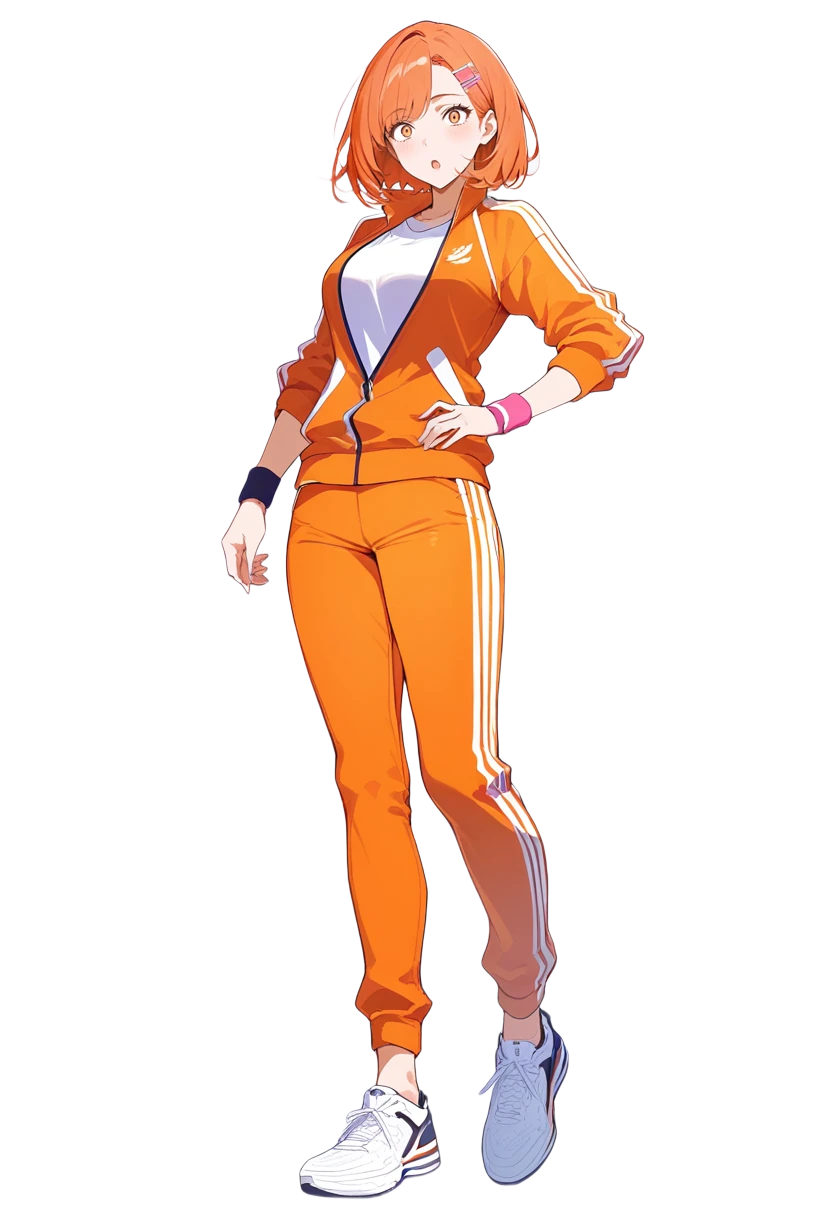
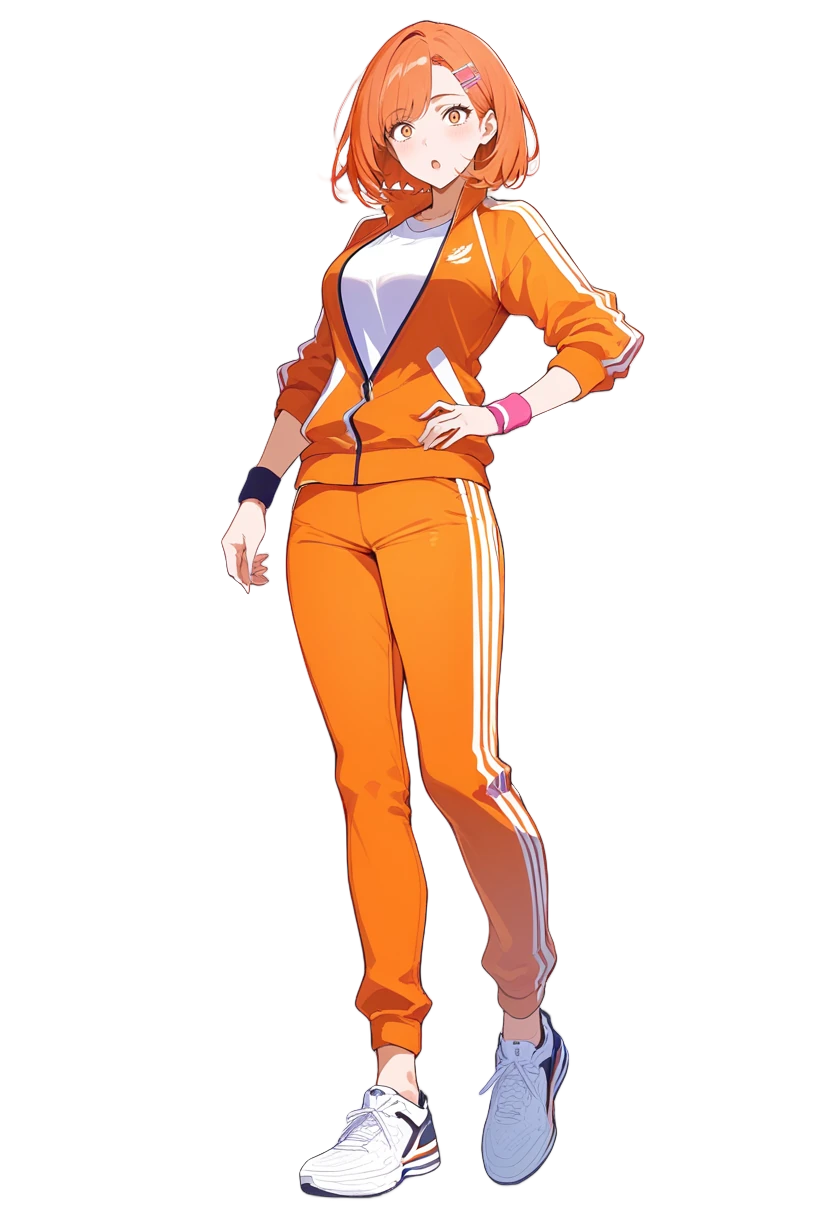
加入葉縈；立繪改用兩個去背模型合併並去白邊
- 葉縈：六種表情立繪（基本立繪 seed 100，表情都用 seed 1）與 34 句台詞（含 3 句吃醋台詞，觸發機制之後和好感度一起做），設定胸像範圍並啟用，五位角色到齊
- 去背改成合併 isnet-anime 與 BiRefNet 的遮罩，再用原本的背景色修正半透明邊緣的顏色：去掉頭髮外圍的白色光暈和部分髮絲間的背景殘留（art/defringe.py）
- 以晴、顏緋、沈靜澄、溫芷薰的立繪用新方法從原圖重做（art/recut.py）；沈靜澄髮梢之間仍有背景殘留，要換去背模型再處理
- notebook 步驟 4 改用同樣的去背方式、預覽改成深色背景；第 1 格會實際檢查 rembg 有沒有裝上
- characters.md、plan.md 更新定稿紀錄、去背方式與進度

Changed region(s): [[0.375, 0.125, 0.4375, 0.1875], [0.625, 0.0938, 0.6562, 0.125], [0.4062, 0.0625, 0.4375, 0.0938]]

diff --git a/art/defringe.py b/art/defringe.py
@@ -1,0 +1,73 @@
+"""立繪去背的後處理：合併兩個去背模型的遮罩（combine_masks），再修正半透明邊緣的顏色（defringe）。
+
+去背模型給頭髮細絲、輪廓邊緣的是半透明遮罩，這沒問題；但這些像素的顏色仍混著原本的淺灰白背景，
+放在網站的深色背景上會出現一圈白色光暈。這裡保留每個像素的透明度，只修正顏色：
+半透明像素 = 前景 × 透明度 + 背景 × (1 - 透明度)，用去背前的背景色反推出前景色；
+太透明、反推不穩定的像素，改用附近不透明部分的平滑顏色。邊緣仍然柔和，但不再帶著背景的白。
+
+透明度本身給錯的地方（例如髮絲之間的背景被當成頭髮）defringe 救不回來，交給 combine_masks；
+試過依顏色修正透明度，但白袍和淺灰背景太像，會削掉白袍邊緣，所以不做。
+
+要在存成 webp 之前、還有去背前原圖的時候做：全透明的地方要是原本的背景色才算得準。
+webp 壓縮會改掉部分看不到的像素（試過從 webp 還原原圖，髮絲間出現棋盤格），所以不要拿輸出後的 webp 來處理。
+
+notebook 步驟 4 輸出 webp 前會用同樣的函式；改這裡要一起改 notebook。
+已經輸出的立繪要重做，用 art/recut.py。
+
+"""
+import sys
+
+import numpy as np
+from PIL import Image
+from scipy.ndimage import distance_transform_edt, gaussian_filter
+
+SOLID = 230  # 透明度高於這個值的像素顏色可信，不動
+
+
+def smooth_fill(rgb, known, sigma):
+    """用 known 像素的顏色平滑地填滿整張圖（高斯加權平均）；離太遠的退回最近像素的顏色。"""
+    w = gaussian_filter(known.astype(float), sigma)
+    filled = np.stack([gaussian_filter(rgb[..., c] * known, sigma) for c in range(3)], -1) / np.maximum(w, 1e-6)[..., None]
+    far = w < 1e-3
+    if far.any():
+        _, (iy, ix) = distance_transform_edt(~known, return_indices=True)
+        filled[far] = rgb[iy, ix][far]
+    return filled
+
+
+def defringe(image: Image.Image, solid: int = SOLID) -> Image.Image:
+    rgba = np.array(image.convert('RGBA')).astype(float)
+    rgb, alpha = rgba[..., :3], rgba[..., 3]
+    clear = alpha == 0
+    if not clear.any() or not (alpha >= solid).any():
+        return image
+    # 每個位置原本的背景色：全透明的地方還是去背前的背景，從那裡平滑地推過來（背景有漸層也能處理）
+    bg = smooth_fill(rgb, clear, 6)
+    # 半透明像素 = 前景 × a + 背景 × (1 - a)，用背景色反推前景（把混進來的背景白扣掉）
+    a = (alpha / 255)[..., None]
+    fg = np.clip((rgb - (1 - a) * bg) / np.maximum(a, 1e-3), 0, 255)
+    # 很透明的像素反推不穩定，改用附近不透明部分的平滑顏色
+    near = smooth_fill(rgb, alpha >= solid, 2)
+    t = np.clip((a - 0.15) / 0.35, 0, 1)
+    semi = alpha < solid
+    out = rgb.copy()
+    out[semi] = (t * fg + (1 - t) * near)[semi]
+    rgba[..., :3] = out
+    return Image.fromarray(rgba.round().astype(np.uint8), 'RGBA')
+
+
+def combine_masks(isnet: Image.Image, birefnet: Image.Image, cut: float = 60, sigma: float = 1.5) -> Image.Image:
+    """合併兩個去背模型的遮罩：以 isnet-anime 的平滑邊緣為主，BiRefNet 判斷為背景的地方挖掉。
+    isnet-anime 會把髮絲之間的背景當成半透明的頭髮留下來；BiRefNet 能分辨那是背景，但細髮絲的邊緣會變成鋸齒。
+    BiRefNet 的遮罩先稍微模糊，鋸齒才不會傳到結果上。"""
+    b = gaussian_filter(np.asarray(birefnet.convert('L')).astype(float), sigma)
+    keep = np.clip(b / cut, 0, 1)
+    return Image.fromarray((np.asarray(isnet.convert('L')).astype(float) * keep).round().astype(np.uint8), 'L')
+
+
+def whitish_edges(image: Image.Image) -> int:
+    """半透明、又很亮很灰的像素數（白邊的程度），用來比較處理前後"""
+    a = np.asarray(image.convert('RGBA')).astype(int)
+    rgb, alpha = a[..., :3], a[..., 3]
+    semi = (alpha > 20) & (alpha < SOLID)
+    return int((semi & (rgb.mean(-1) > 215) & (rgb.max(-1) - rgb.min(-1) < 25)).sum())

diff --git a/art/recut.py b/art/recut.py
@@ -1,0 +1,48 @@
+"""重做某位角色的立繪去背：從 Colab 產生的原圖重新去背，輸出到 data/characters/<角色>/。
+
+notebook 步驟 4 已經用同樣的方法（兩個去背模型合併 + 去白邊）；這個工具給「已經輸出、要用新方法重做」的立繪用。
+需要原圖：把 Google Drive 的 nmle-art/expr/animagine/<角色>/<基本立繪 seed>/ 下載到 art/<角色>/<基本立繪 seed>/。
+選用的表情 seed 見 characters.md 的「定稿紀錄」。
+
+用法（需要 rembg、scipy：pip install "rembg[cpu]" scipy）：
+    python art/recut.py fei 113 normal=2 happy=2 shy=2 sad=2 surprised=2 pout=2
+
+去背只用 normal 那張算一次，所有表情共用同一個遮罩，切換表情時輪廓才不會跳動（同 notebook）。
+BiRefNet 在 CPU 上一張大約一分半鐘，模型第一次會下載約 1 GB。
+"""
+import sys
+from pathlib import Path
+
+from PIL import Image
+from rembg import new_session, remove
+
+from defringe import combine_masks, defringe, whitish_edges
+
+ROOT = Path(__file__).resolve().parent.parent
+
+
+def main(char, base_seed, picks):
+    src = {name: ROOT / 'art' / char / base_seed / name / f'{seed}.png' for name, seed in picks.items()}
+    missing = [str(p) for p in src.values() if not p.exists()]
+    if missing:
+        sys.exit('找不到原圖：\n' + '\n'.join(missing))
+    base = Image.open(src['normal']).convert('RGB')
+    print('去背中（isnet-anime）……', flush=True)
+    isnet = remove(base, session=new_session('isnet-anime'), only_mask=True)
+    print('去背中（birefnet-general，CPU 上約一分半鐘）……', flush=True)
+    bref = remove(base, session=new_session('birefnet-general'), only_mask=True)
+    alpha = combine_masks(isnet, bref)
+    out_dir = ROOT / 'data' / 'characters' / char
+    out_dir.mkdir(parents=True, exist_ok=True)
+    for name, path in src.items():
+        rgba = Image.open(path).convert('RGB')
+        rgba.putalpha(alpha)
+        fixed = defringe(rgba)
+        fixed.save(out_dir / f'{name}.webp', 'WEBP', quality=90, method=6)
+        print(f'{name}：白邊像素 {whitish_edges(rgba)} → {whitish_edges(fixed)}')
+
+
+if __name__ == '__main__':
+    if len(sys.argv) < 4:
+        sys.exit(__doc__)
+    main(sys.argv[1], sys.argv[2], dict(a.split('=') for a in sys.argv[3:]))

diff --git a/characters.md b/characters.md
@@ -13,7 +13,7 @@
 | `zhixun` | 溫芷薰 | 大姊姊 | 紫 | 27 | 醫院臨床藥師 | 藥理學 | 25 |
 | `fei` | 顏緋 | 傲嬌 | 紅 | 28 | 病理科住院醫師 | 病理學、公共衛生學 | 40 |
 
-第一版（10/21 前）先做 **夏以晴**（醫學(一)）和 **顏緋**（醫學(二)），其餘三位考前陸續加入。**沈靜澄**、**溫芷薰**已在 10/15 加入（立繪與台詞）；葉縈還沒做。
+第一版（10/21 前）先做 **夏以晴**（醫學(一)）和 **顏緋**（醫學(二)），其餘三位考前陸續加入。**沈靜澄**、**溫芷薰**、**葉縈**已在 10/15 加入（立繪與台詞），五位角色到齊。
 
 ## 世界觀與故事
 
@@ -49,7 +49,7 @@
 
 - **解析度**：832 × 1216（直式全身立繪）
 - **參數**：CFG 5、28 steps、Euler a（依模型說明頁的建議）。
-- **prompt 順序**：角色 tag → 共用 tag → 品質 tag。SDXL 的文字編碼器只讀前 75 個 token，超過的會被默默丟掉，所以角色外觀放最前面；notebook 會在超過時直接報錯。共用 tag 加品質 tag 佔 36 個 token，所以**角色 tag 最多 39 個**（以晴 38、顏緋 39）。表情差分的臉部 prompt 另外計算，空間比較多。葉縈的 tag 是 40，做之前要先刪 1 個。
+- **prompt 順序**：角色 tag → 共用 tag → 品質 tag。SDXL 的文字編碼器只讀前 75 個 token，超過的會被默默丟掉，所以角色外觀放最前面；notebook 會在超過時直接報錯。共用 tag 加品質 tag 佔 36 個 token，所以**角色 tag 最多 39 個**（以晴 38、顏緋 39）。表情差分的臉部 prompt 另外計算，空間比較多。五位角色的 tag 都已經在上限內。
 - **共用 tag**：
 
 ```text
@@ -88,6 +88,7 @@ lowres, bad anatomy, bad hands, text, error, missing finger, extra digits, fewer
 | 顏緋 | 113 | (382, 108, 112, 122) | 0.6 | 六種表情都是 2 | 完成 |
 | 沈靜澄 | 123 | (338, 102, 106, 102) | 0.6 | 五種表情都是 1 | 完成 |
 | 溫芷薰 | 110 | (378, 150, 106, 108) | 0.6 | 五種表情都是 4 | 完成；`KEEP_DARK = [(464, 197, 4)]`（左眼下的淚痣） |
+| 葉縈 | 100 | (387, 144, 100, 96) | 0.6 | 六種表情都是 1 | 完成 |
 
 `PICKS` 的 seed 是步驟 3 表情差分的 seed；`normal` 也是重畫過臉的版本，不是基本立繪原圖。挑表情時，所有表情盡量用同一個 seed，臉型才會一致；也要檢查遮罩邊緣有沒有多畫東西（例如顏緋的 seed 4 每張都多一顆耳環，換表情時會忽隱忽現）。
 
@@ -197,10 +198,15 @@ orange hair, short hair, bob cut, hairclip, amber eyes, athletic female, orange 
 **生圖 tag**
 
 ```text
-dark green hair, long hair, low twintails, hair ribbon, green eyes, bags under eyes, oversized labcoat, sleeves past fingers, test tube, breast pocket, gentle smile, head tilt
+dark green hair, long hair, low twintails, hair ribbon, green eyes, bags under eyes, oversized labcoat, sleeves past fingers, holding test tube, green sweater, long skirt
 ```
 
-**專屬表情**：`yandere` → `smile, shaded face, empty eyes, head tilt`（喜劇式的「眼神死」，用在吃醋台詞）
+原本的 tag 有 40 個 token。刪掉 `gentle smile`（表情會重畫）、`head tilt`（身體姿勢）、`breast pocket`（容易讓構圖往胸部靠），`test tube` 改成 `holding test tube`，補上白袍底下的 `green sweater`、`long skirt`，共 38 個。只寫過大的白袍、不寫裡面穿什麼，容易被畫成只穿一件白袍、露出腿，和輔導級的規範衝突。
+
+- **臉部 tag**（表情差分用）：`dark green hair, long hair, green eyes, bags under eyes`。黑眼圈左右對稱，寫進 tag 沒有淚痣那種換邊的問題。
+- **角色專屬負向 tag**：`bare legs, large breasts, cleavage`。
+
+**專屬表情**：`yandere` → `smile, shaded face, empty eyes`（喜劇式的「眼神死」，用在吃醋台詞）。原本還有 `head tilt`，但只重畫臉部時頭部動作沒有作用，所以拿掉。
 
 **好感度劇情大綱**
 - 0 初識：她遞給你一杯咖啡，說「我知道你喜歡半糖」，你從沒告訴過她。
@@ -335,7 +341,7 @@ red hair, medium hair, side braid, red eyes, tsurime, red scrubs, scrub top, scr
 
 **目前的檔案**
 - 角色基本資料：`data/characters.json`（`enabled` 為 `false` 的角色網站不顯示）。
-- 台詞：`data/lines/yiqing.json`、`data/lines/fei.json`、`data/lines/jingcheng.json`、`data/lines/zhixun.json`。答對、答錯的台詞是從同一情境隨機抽的，不會對應題目內容；帶醫學知識的台詞要寫成「順便補充」的語氣，不要暗示剛才那題考的就是這個。好感度系統還沒做，目前只會出現 `affection_min` 為 0 的台詞。
+- 台詞：`data/lines/yiqing.json`、`data/lines/fei.json`、`data/lines/jingcheng.json`、`data/lines/zhixun.json`、`data/lines/ying.json`。葉縈有 `jealous`（吃醋）台詞，但網站還沒有觸發吃醋的機制，之後和好感度一起做。答對、答錯的台詞是從同一情境隨機抽的，不會對應題目內容；帶醫學知識的台詞要寫成「順便補充」的語氣，不要暗示剛才那題考的就是這個。好感度系統還沒做，目前只會出現 `affection_min` 為 0 的台詞。
 - `mock_high`：角色模式下模擬考 70 分以上，交卷後由這份考卷裡負責學科得分率最高的角色說（得分率一樣時選題數多的）。例如醫學(一) 解剖、胚胎、組織考得最好，就是沈靜澄。
-- 立繪：`data/characters/<角色 id>/<表情 id>.webp`，用 `art/portraits.ipynb` 產生。缺少某個表情時會改用 `normal`，連 `normal` 都沒有就顯示代表色的佔位圖。
+- 立繪：`data/characters/<角色 id>/<表情 id>.webp`，用 `art/portraits.ipynb` 產生。去背方式見 `plan.md`「美術與內容」；重做去背用 `art/recut.py`（需要把 Drive 上的原圖下載到 `art/<角色>/<seed>/`）。缺少某個表情時會改用 `normal`，連 `normal` 都沒有就顯示代表色的佔位圖。
 - 胸像範圍：角色卡和手機版的小框只顯示胸像，範圍是 `characters.json` 的 `bust`（`x`、`y`、`w`，單位是原圖像素，高度依小框比例自動算，約 `w ÷ 0.73`）。每位角色姿勢不同，立繪做好後要各設一次；沒設就從圖片頂端顯示全寬。
